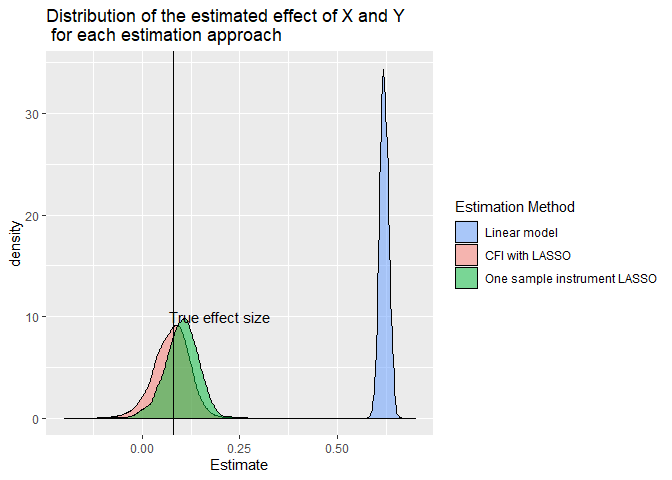
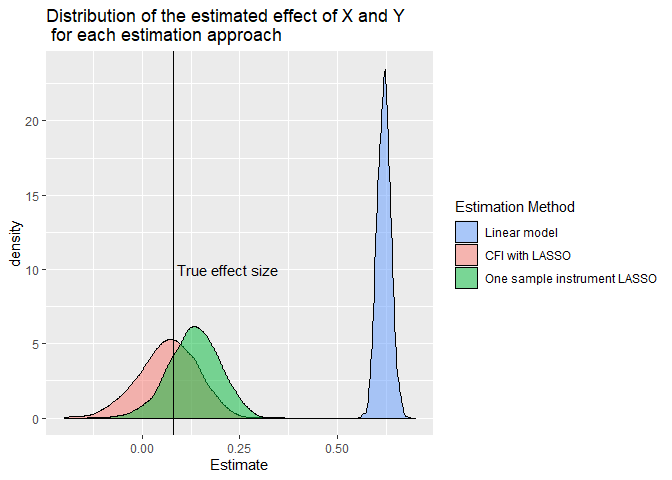
correction README

diff --git a/README.md b/README.md
@@ -120,7 +120,7 @@ summary(res2)$coef[2,] #CFI-LASSO, at worse bias toward the null
 ### Some larger simulations
 
 Here we perform 2000 estimations of the effect of X on Y (parameter
-n=5000, p=100, np\_act=5,beta=0.08,h2=0.1) using CFI, one sample
+n=2000, p=100, np\_act=5,beta=0.08,h2=0.1) using CFI, one sample
 instrument LASSO estimate, and a standard linear model. The function
 used for the simulations can be found at the end of this document or in
 the folder CFMR\_simulation\_code.
@@ -131,13 +131,9 @@ Clearly, LM and one sample IV Lasso are overconfident and biased. In the
 plot below, we see that the linear model and On sample instrument LASSO
 have smaller standard errors than CFI with LASSO, which implies
 overconfidence in the significance of the estimated
-    effect.
+effect.
 
-![](README_files/figure-gfm/unnamed-chunk-4-1.png)<!-- -->
-
-    ## Warning: Removed 2000 rows containing non-finite values (stat_density).
-
-![](README_files/figure-gfm/unnamed-chunk-4-2.png)<!-- -->
+![](README_files/figure-gfm/unnamed-chunk-4-1.png)<!-- -->![](README_files/figure-gfm/unnamed-chunk-4-2.png)<!-- -->
 
 ## Simulation function
 
